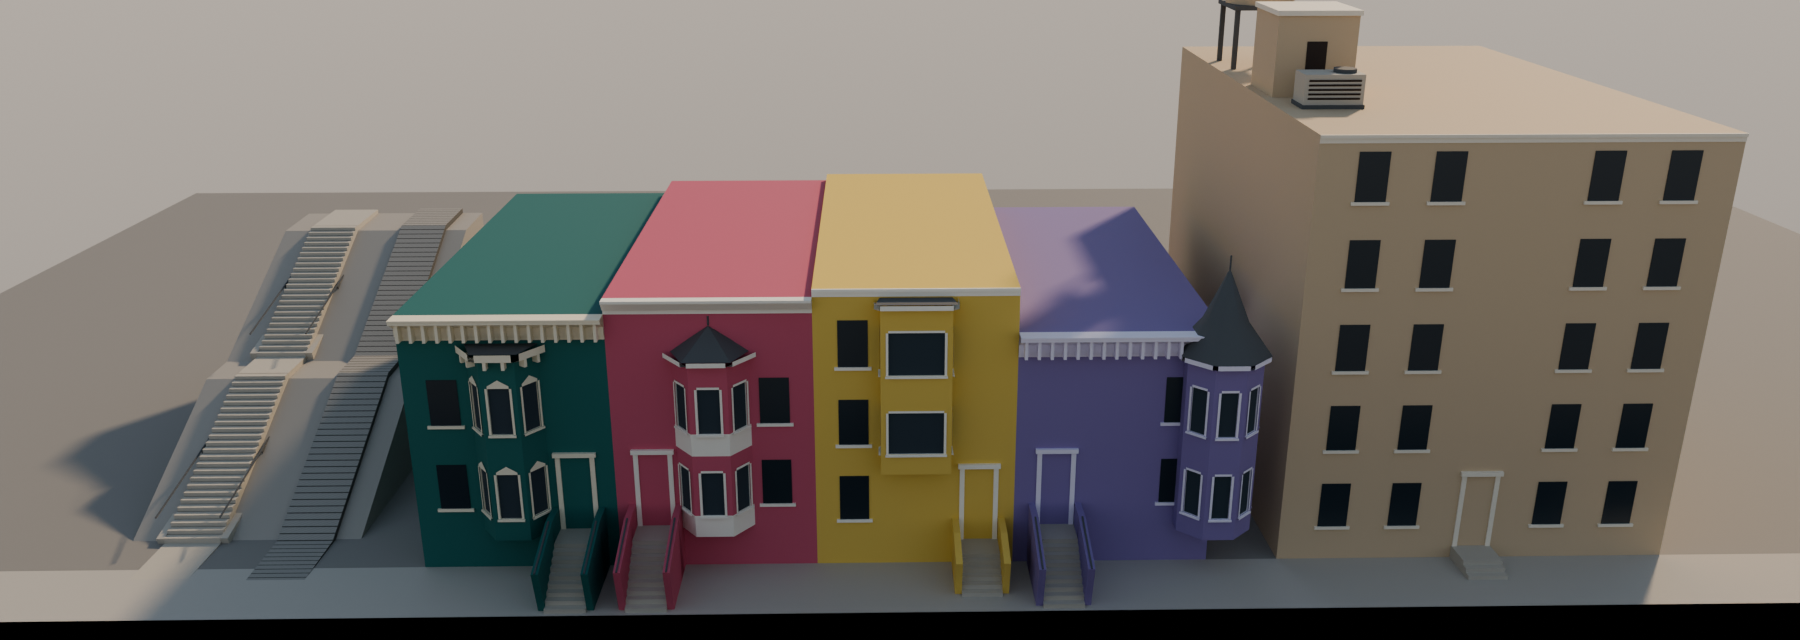
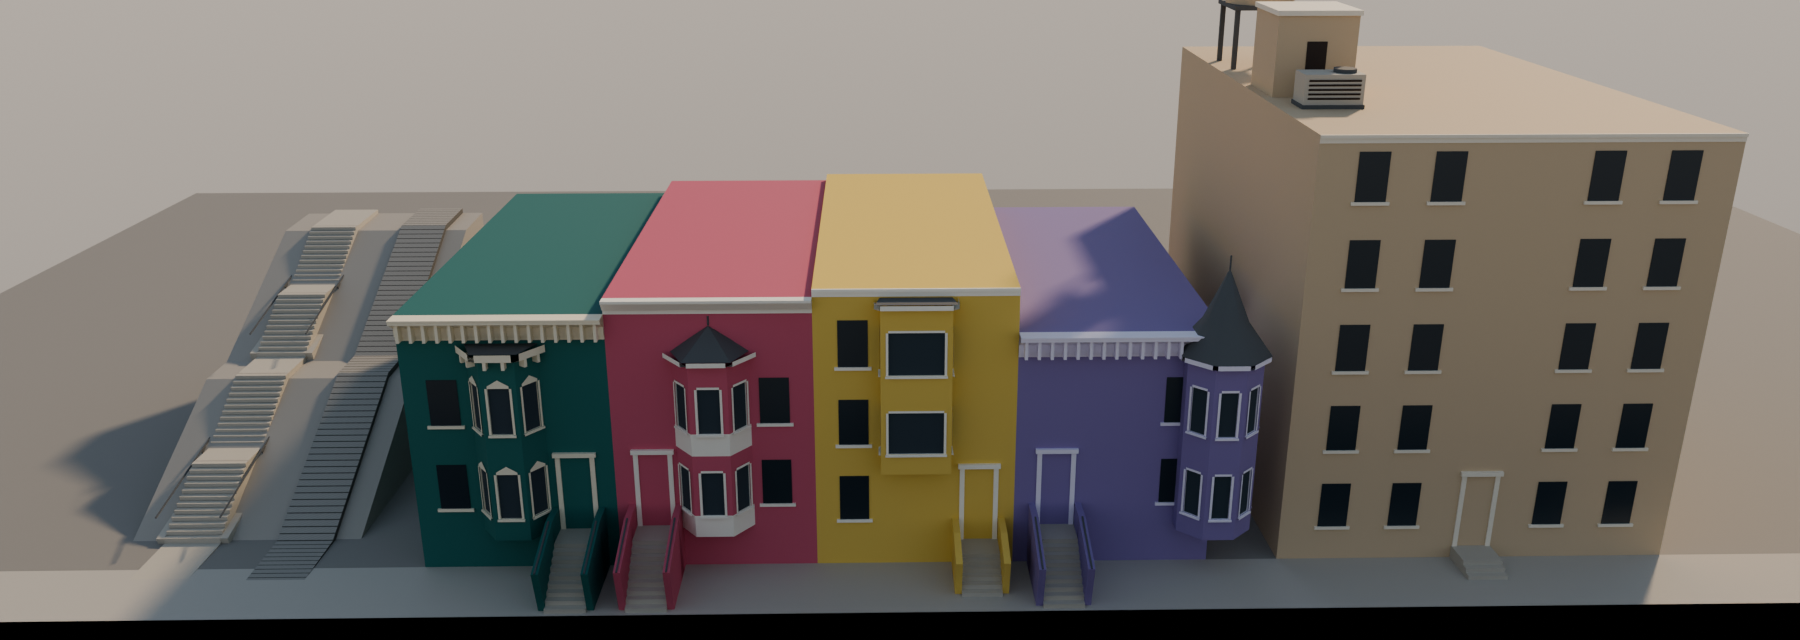
Assets look-dev 10, 11, 12 re-rendered (review): the public stairway with landings every 16 risers, the bridges' portals and bents, the Dragon Gate on its outer pillars; README: stoop entry storey and stair flights
Claude-Session: https://claude.ai/code/session_01Nw9mRkTnnDS7d1XcfF7Fsd

Changed region(s): [[0.0622, 0.5938, 0.1556, 0.875], [0.1244, 0.375, 0.2178, 0.5625]]

diff --git a/assets/blender/README.md b/assets/blender/README.md
@@ -665,14 +665,14 @@ per instance: 0 `body` (the house's wall colour), 1 `trim` (its trim colour, K3)
 | `bay-queen-anne.glb` | `storey`, `cap` | 133 (280) | angled bay 2.9 x 0.95 m, a trim-coloured apron under the sills, a hipped cap with a finial (1.8 m). 1885-1905 |
 | `bay-edwardian.glb` | `storey`, `cap` | 112 (220) | square bay 2.6 x 0.75 m, wide sashes, moulded cap (0.45 m). 1900-1925 |
 | `bay-turret.glb` | `storey`, `cap` | 262 (420) | octagonal corner turret, 2.8 m, centred on the building's corner (the front wall runs to -X, the side wall back), conical roof (4.05 m) that may rise above the roof as built |
-| `stoop.glb` | `step`, `landing`, `cheek`, `rail`, `door` | 110 (160) | unit blocks (x -0.5..0.5, y -1..0, z -1..0) scaled and sheared by `stoopLayout`: equal risers of 0.15-0.19 m, 0.28 m treads, a 1.2 m landing, cheek walls 0.9 m over the treads, iron rails on request; the door frame (1.1 x 2.45 m, transom) at the threshold |
+| `stoop.glb` | `step`, `landing`, `cheek`, `rail`, `door` | 110 (160) | unit blocks (x -0.5..0.5, y -1..0, z -1..0) scaled and sheared by `stoopLayout`: equal risers of 0.15-0.19 m (never over `maxRiserM` 0.19), 0.28 m treads, a 1.2 m landing, cheek walls 0.9 m over the treads, iron rails on request; the door frame (1.1 x 2.45 m, transom) at the threshold |
 | `roof-water-tank.glb` | `tank` | 208 (420) | a timber tank on a steel stand (3.4 m, 7.2 m tall) |
 | `roof-mech-box.glb` | `unit` | 76 (140) | a mechanical unit 2.4 x 1.4 m with louvres and a fan, scalable |
 | `roof-penthouse.glb` | `unit` | 24 (90) | a stair or elevator penthouse 4 x 4 x 3.4 m with a door, scalable |
 | `cornice-italianate.glb` | `segment`, `end` | 58 (120) | 1 m of bracketed cornice (0.66 m out, 0.95 m drop) |
 | `cornice-edwardian.glb` | `segment`, `end` | 66 (110) | 1 m of moulded cornice with dentils (0.42 m out, 0.6 m drop) |
 | `parapet-coping.glb` | `segment`, `end` | 18 (40) | 1 m of parapet coping (0.08 m out, 0.3 m drop) |
-| `stair-flight.glb` | `step`, `landing`, `curb`, `handrail` | 52 (90) | a public stairway's unit blocks laid by `stairLayout` along a path profile: equal risers of about 0.165 m, landings on the flats, curbs and handrails |
+| `stair-flight.glb` | `step`, `landing`, `curb`, `handrail` | 52 (90) | a public stairway's unit blocks laid by `stairLayout` along a path profile: equal risers of about 0.165 m, treads of at least 0.25 m, landings on the flats and a 1.5 m landing at least every 16 risers (`maxRisersPerFlight`; the first and last flights half length, so the steps' sawtooth stays centred on the path), curbs and handrails |
 | `stair-treads.png` | | | 256 x 256, one tread per tile repeating every 0.30 m of run, the nosing a dark row at the image's bottom: the cheap option for a stair ribbon |
 
 Frames (metres, glTF +Y up, -Z out of the wall): bays and the door stand on the wall plane at
@@ -686,10 +686,13 @@ Layout rules (`runtime/house-kit.ts`, the numbers in `house-kit.json` `rules`): 
 7.5 m of front 4.5 m or longer, on storeys 1 to n-1 (from the first floor when it is raised 1.5 m
 or more), the cap under the roof line and clear of the front's cornice; a stoop wherever the
 first floor stands 1 m or more above the sidewalk, which removes the blank plinths of W-50 (a
-2.9 m rise is 16 risers reaching 5.4 m out); roofline mouldings in whole 1 m segments stretched
+2.9 m rise is 16 risers reaching 5.4 m out); above 16 risers of 0.19 m (3.04 m) there is no
+straight stoop: `stoopLayout` returns `entryStorey: true` with the door at the sidewalk, and the
+renderer draws a garage or entry storey over the plinth (K7) instead of a blank band; roofline mouldings in whole 1 m segments stretched
 to the wall; rooftop props only from 4 storeys (a mechanical unit per 250 m² of roof, a
 penthouse from 5 storeys, a water tank on about a third of pre-1950 buildings of 5 storeys),
-inset 2 m from the roof's edge; stairs wherever a path's grade reaches 12%.
+inset 2 m from the roof's edge; stairs wherever a path's grade reaches 12%, at most 16 risers
+to a flight (`StairPlan.flights`).
 
 Budget (house-kit-spec Budget; tested): a dense residential tile (600 houses, half with two bay
 storeys, 400 stoops, 600 fronts of cornice or coping, 40 roof props) adds under 400k triangles
